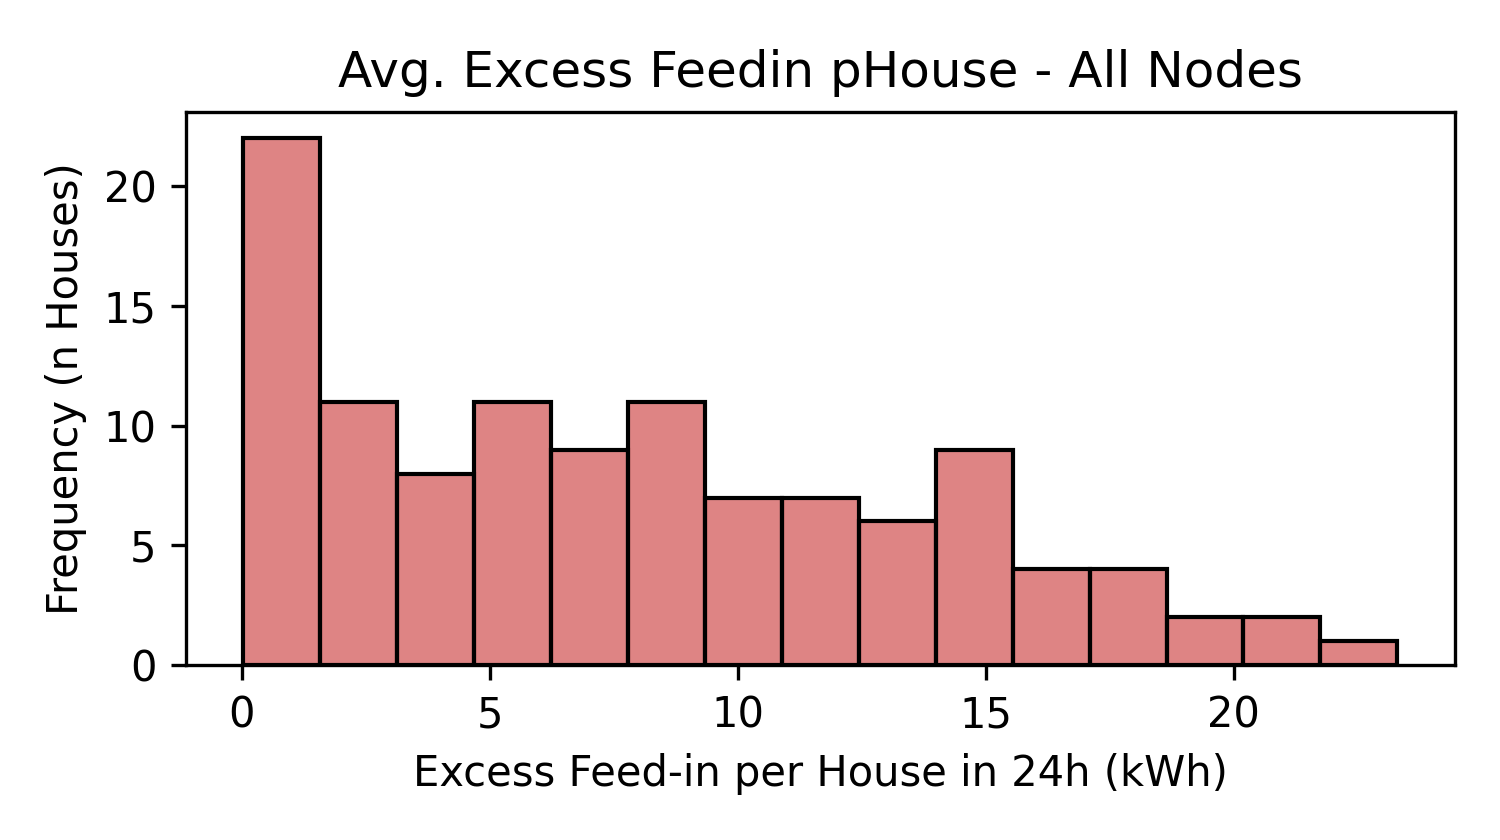
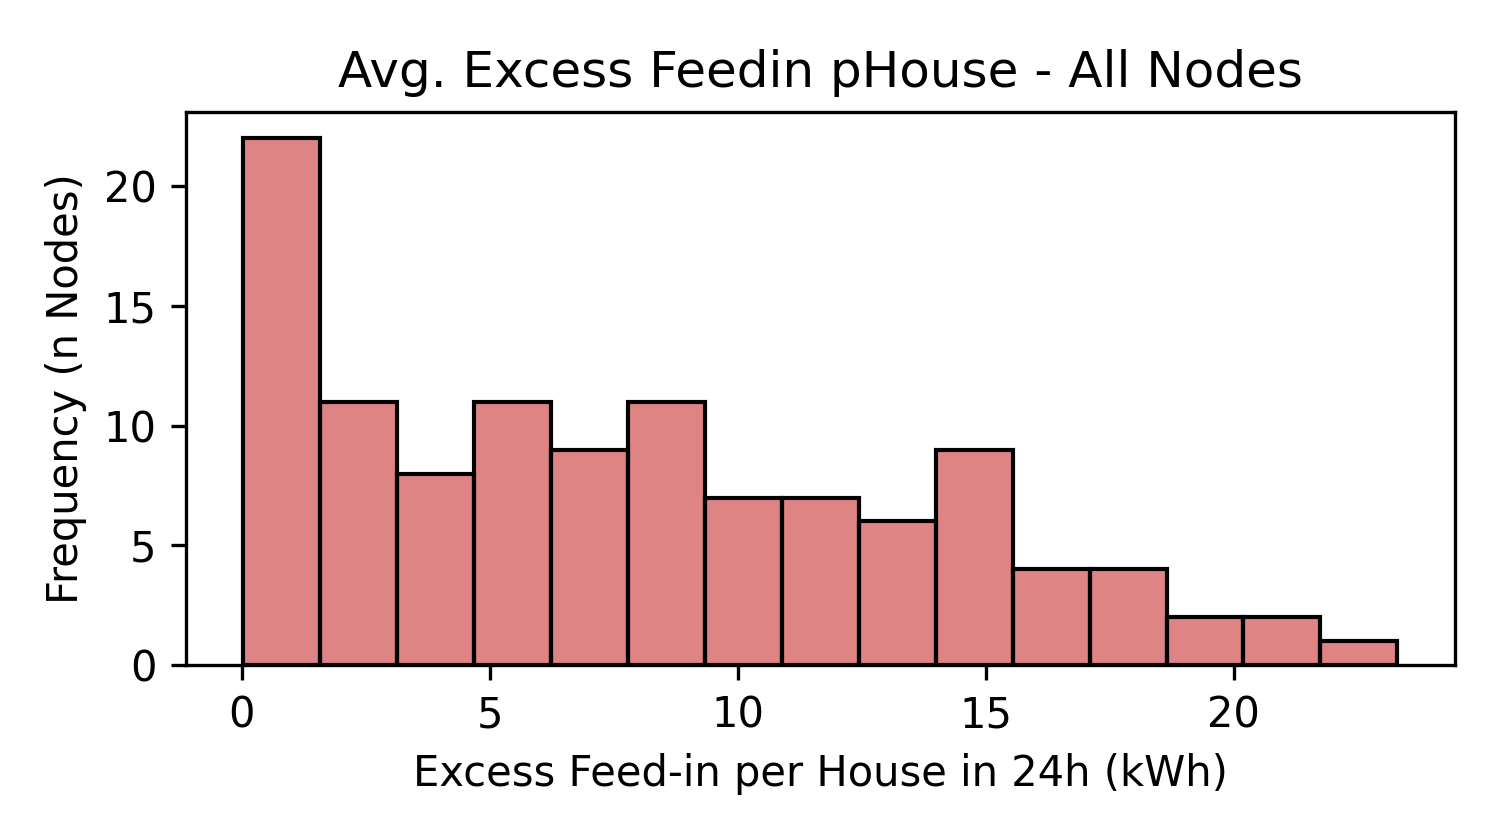
Updates from Overleaf

Changed region(s): [[0.0307, 0.1857, 0.0613, 0.7429]]

diff --git a/paper_publication/WCERE_Lisabon/main.tex b/paper_publication/WCERE_Lisabon/main.tex
@@ -221,7 +221,7 @@
 }
 
 % MAIN ROW
-\node[topiccard, fill=card3] (t1) at (0*\dx, 0)
+\node[topiccard, fill=card6] (t1) at (0*\dx, 0) %card3
 {
 \begin{minipage}{\cardwidth}
 \raggedright
@@ -233,7 +233,7 @@
 \end{minipage}
 };
 
-\node[topiccard, fill=card4, fill opacity = 0.25, text opacity = 0.95] (t2) at (1*\dx, 0)
+\node[topiccard, fill=card3, fill opacity = 0.25, text opacity = 0.95] (t2) at (1*\dx, 0)  % card4
 {
 \begin{minipage}{\cardwidth}
 \raggedright
@@ -247,7 +247,7 @@ Poss. underestimation \hyperlink{appendix_model_grid_analysis}{\beamerreturnbutt
 \end{minipage}
 };
 
-\node[topiccard, fill=card5, fill opacity = 0.25, text opacity = 0.95] (t3) at (2*\dx, 0)
+\node[topiccard, fill=card3, fill opacity = 0.25, text opacity = 0.95] (t3) at (2*\dx, 0)   % card5
 {
 \begin{minipage}{\cardwidth}
 \raggedright
@@ -281,7 +281,7 @@ Biodiversity a.o.\\
 };
 
 % STACKED PAIR
-\node[smallcard, fill=card2, fill opacity = 0.25, text opacity = 0.95] (s1) at (4.1*\dx, 0.801)
+\node[smallcard, fill=card3, fill opacity = 0.25, text opacity = 0.95] (s1) at (4.1*\dx, 0.801) % card2
 {
 \begin{minipage}{\cardwidth}
 \raggedright
@@ -293,7 +293,7 @@ Penetration limits\\
 \end{minipage}
 };
 
-\node[smallcard, fill=card2, fill opacity = 0.25, text opacity = 0.95] (s2) at (4.1*\dx, -0.801)
+\node[smallcard, fill=card3, fill opacity = 0.25, text opacity = 0.95] (s2) at (4.1*\dx, -0.801)  % card2
 {
 \begin{minipage}{\cardwidth}
 \raggedright
@@ -579,7 +579,7 @@ Rollout 2028 at 80\%\\
       & 4'215.7
       & 3'751.2
       & 3'192.6 \\
-    n h ouses
+    n houses
       & \textcolor{black}{379}
       & 243
       & 283
@@ -605,11 +605,11 @@ Rollout 2028 at 80\%\\
   \vspace{0.412cm}
 
   \begin{columns}[T]
-    \begin{column}{0.48\textwidth}
+    \begin{column}{0.46\textwidth}
       \centering
         \includegraphics[width=\textwidth]{figures/hist_avgloss_pEGID_pvalloc_LRG3_max.png}
     \end{column}
-    \begin{column}{0.48\textwidth}
+    \begin{column}{0.46\textwidth}
       \centering
         \includegraphics[width=\textwidth]{figures/worstnode_worstweek_pegid_pvalloc_LRG3_max.png}
     \end{column}
@@ -637,24 +637,28 @@ Rollout 2028 at 80\%\\
   \begin{block}{Research Contribution}
     \begin{enumerate}
       \item \textbf{Problem quantification} $\rightarrow$\textit{Grid congestion will arise in the next 5-6 years and scale up fast, possible endangering the "residential capacity targets" for a successful energy transition.}
-      \vspace{0.1cm}
+      \vspace{-0.05cm}
       \item \textbf{Economic response} $\rightarrow$ \textit{Simple subsidy adjustments might delay grid congestion by a few years and could be even as good as a social planner's allocation.}
     \end{enumerate}
   \end{block}
 
   \textbf{Outlook}
+  \vspace{-0.1cm}
   \begin{itemize}
-    \item Post calculation: battery capacity for "worst week" in "worst node" (in progress).
-    \item Cost comparison of subsidy spending to grid reinforcements in most affected nodes.
+    \item Post calculation: Max battery capacities needed to bridge "worst week".
+    % \item Cost comparison of subsidy spending to grid reinforcements in most affected nodes.
+    \item Derive alternative PV expansion capacities (PSI).
+    \item Welfare effect of distorted incentives (interest rate effect on later realized installations)
+    \item \textbf{Postponed}: Add battery investment and battery usage to the model.
   \end{itemize}
 
-  \textbf{Postponed}
-  \begin{itemize}
-    \item Add battery investment and battery usage to the model
-    \begin{itemize}
-      \item Optimized for household consumption vs.\ grid serving (quasi-obligatory for PV installations)
-    \end{itemize}
-  \end{itemize}
+  % \textbf{Postponed}
+  % \begin{itemize}
+  %   % \item Add battery investment and battery usage to the model
+  %   \begin{itemize}
+  %     % \item Optimized for household consumption vs.\ grid serving (quasi-obligatory for PV installations)
+  %   \end{itemize}
+  % \end{itemize}
 
 \end{frame}
 
